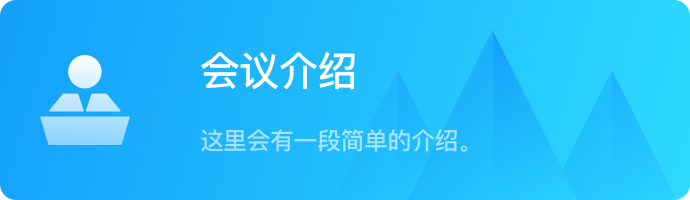
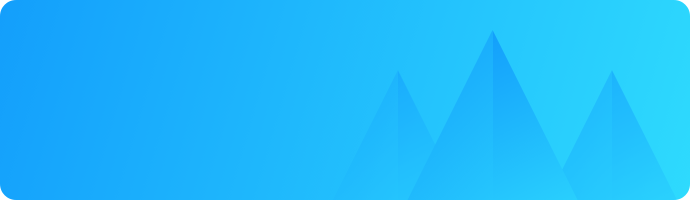
保存

Changed region(s): [[0.2739, 0.63, 0.7, 0.78], [0.0609, 0.27, 0.213, 0.75], [0.2739, 0.24, 0.5174, 0.45]]

diff --git a/src/index.html b/src/index.html
@@ -11,6 +11,8 @@
 
 <body>
 
+  <link rel="import" href="./widgets/header2.html?__inline">
+
   <div class="wrap index">
 
     <link rel="import" href="./widgets/header.html?__inline">
@@ -52,44 +54,44 @@
       </div>
       <div class="right">
         <ul>
-          <li>
+          <li class="li1">
             <a href="desc.html" class="v1336">
               <img src="assets/img/desc.png">
               <span class="zh-en">会议简介</span>
             </a>
             <a href="desc.html" class="v750">
-              <img src="assets/img/desc-img.png" class="zh">
-              <img src="assets/img/desc-img-en.png" class="en">
+              <span>会议介绍</span>
+              <span>这里会有一段简单的介绍。</span>
             </a>
           </li>
-          <li>
+          <li class="li2">
             <a href="info.html" class="v1336">
               <img src="assets/img/info.png">
               <span class="zh-en">会议信息</span>
             </a>
             <a href="info.html" class="v750">
-              <img src="assets/img/info-img.png" class="zh">
-              <img src="assets/img/info-img-en.png" class="en">
+              <span>会议信息</span>
+              <span>这里会有一段简单的介绍。</span>
             </a>
           </li>
-          <li>
+          <li class="li3">
             <a href="schedule.html" class="v1336">
               <img src="assets/img/schedule.png">
               <span class="zh-en">会议日程</span>
             </a>
             <a href="schedule.html" class="v750">
-              <img src="assets/img/schedule-img.png" class="zh">
-              <img src="assets/img/schedule-img-en.png" class="en">
+              <span>会议日程</span>
+              <span>这里会有一段简单的介绍。</span>
             </a>
           </li>
-          <li>
+          <li class="li4">
             <a href="person.html" class="v1336">
               <img src="assets/img/person.png">
               <span class="zh-en">重要嘉宾</span>
             </a>
             <a href="person.html" class="v750">
-              <img src="assets/img/person-img.png" class="zh">
-              <img src="assets/img/person-img-en.png" class="en">
+              <span>重要嘉宾</span>
+              <span>这里会有一段简单的介绍。</span>
             </a>
           </li>
         </ul>

diff --git a/src/assets/css/style.scss b/src/assets/css/style.scss
@@ -61,6 +61,14 @@ p {
   padding-bottom: 40px;
 }
 
+.v1336 [active] {
+  color: #ffffff;
+}
+
+.v750 [active] {
+  color: #028FFB;
+}
+
 @media screen and (max-width: 1336px) {
 
   .v1336 {
@@ -84,6 +92,7 @@ p {
   }
 
   header {
+    overflow: hidden;
     height: 96px;
     margin-bottom: 30px;
     background: rgba(255, 255, 255, 1);
@@ -104,9 +113,15 @@ p {
       }
 
       .lang-zh {
-        background: #ffffff url("../../assets/img/drop-down.png") no-repeat right  30px center;
+        background: #ffffff url("../../assets/img/drop-down.png") no-repeat right 30px center;
+
+
       }
     }
+  }
+
+  header[show] {
+    overflow: visible;
   }
 
   .wrap {
@@ -164,10 +179,42 @@ p {
     }
 
     .right {
+      padding-bottom: 40px;
 
       li {
+        height: 200px;
         margin-top: 30px;
-        background-color: transparent;
+        padding-left: 200px;
+
+        span:nth-child(1) {
+          display: block;
+          padding-top: 43px;
+          font-size: 40px;
+          color: rgba(255, 255, 255, 1);
+        }
+
+        span:nth-child(2) {
+          display: block;
+          margin-top: 25px;
+          font-size: 24px;
+          color: rgba(255, 255, 255, 1);
+        }
+      }
+
+      .li1 {
+        background: url("../../assets/img/desc750.png") no-repeat 70px center, url("../../assets/img/desc-img.png") no-repeat center center;
+      }
+
+      .li2 {
+        background: url("../../assets/img/info750.png") no-repeat 70px center, url("../../assets/img/info-img.png") no-repeat center center;
+      }
+
+      .li3 {
+        background: url("../../assets/img/schedule750.png") no-repeat 70px center, url("../../assets/img/schedule-img.png") no-repeat center center;
+      }
+
+      .li4 {
+        background: url("../../assets/img/person750.png") no-repeat 70px center, url("../../assets/img/person-img.png") no-repeat center center;
       }
     }
   }

diff --git a/src/assets/js/script.js b/src/assets/js/script.js
@@ -105,7 +105,22 @@ var enImgs = document.querySelectorAll('.en');
 var langZh = document.querySelector('.lang-zh');
 var langEn = document.querySelector('.lang-en');
 
+var v750header = document.querySelector('#v750header');
+
+var index = 0;
+v750header.onclick = (e) => {
+  if (index++ % 2 == 0) {
+    v750header.setAttribute('show', true);
+  } else {
+    v750header.removeAttribute('show');
+  }
+};
+
 function changeLang(_lang) {
+  if (!v750header.getAttribute('show')) {
+    return;
+  }
+
   lang = _lang;
   localStorage.setItem('lang', lang);
 
@@ -130,13 +145,13 @@ function changeLang(_lang) {
     if (lang == 'en') {
       zhImgs.forEach(item => item.setAttribute('hide', true));
       enImgs.forEach(item => item.removeAttribute('hide'));
-      langZh.style.color = '';
-      langEn.style.color = '#ffffff';
+      langZh.removeAttribute('active');
+      langEn.setAttribute('active', true);
     } else if (lang == 'zh') {
       zhImgs.forEach(item => item.removeAttribute('hide'));
       enImgs.forEach(item => item.setAttribute('hide', true));
-      langZh.style.color = '#ffffff';
-      langEn.style.color = '';
+      langZh.setAttribute('active', true);
+      langEn.removeAttribute('active');
     }
   }
 }

diff --git a/src/widgets/header.html b/src/widgets/header.html
@@ -4,14 +4,3 @@
   <span class="lang-zh" onclick="changeLang('zh')">中文</span>
   <span class="lang-en" onclick="changeLang('en')">English</span>
 </header>
-
-<header class="header v750">
-  <ul>
-    <li>
-      <span class="lang-zh" onclick="changeLang('zh')">中文</span>
-    </li>
-    <li>
-      <span class="lang-en" onclick="changeLang('en')">English</span>
-    </li>
-  </ul>
-</header>

diff --git a/src/widgets/header2.html b/src/widgets/header2.html
@@ -1,0 +1,10 @@
+<header class="header v750" id="v750header">
+  <ul>
+    <li>
+      <span class="lang-zh" onclick="changeLang('zh')">中文</span>
+    </li>
+    <li>
+      <span class="lang-en" onclick="changeLang('en')">English</span>
+    </li>
+  </ul>
+</header>

diff --git a/src/info.html b/src/info.html
@@ -11,6 +11,8 @@
 
 <body>
 
+  <link rel="import" href="./widgets/header2.html?__inline">
+
   <img src="assets/img/info-top.png" class="top-img v750 zh">
   <img src="assets/img/info-top-en.png" class="top-img v750 en">
 
